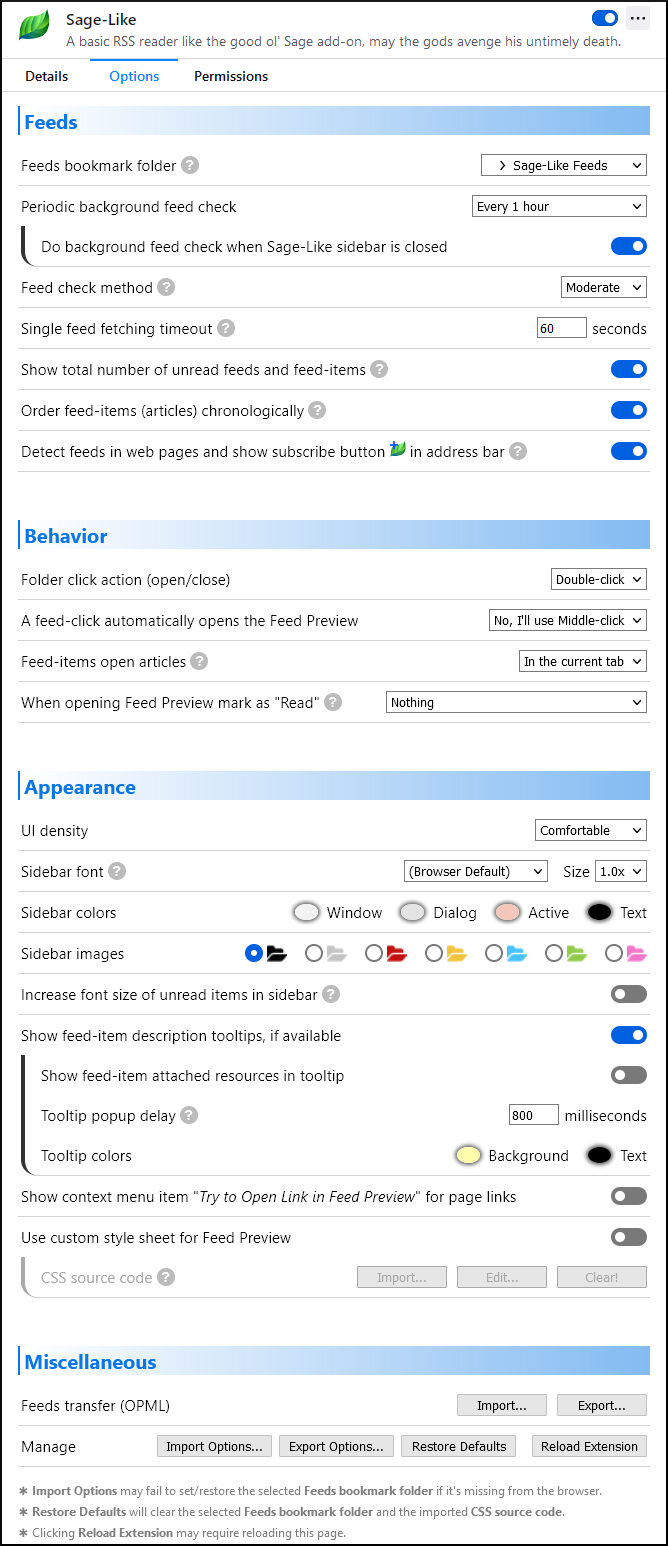
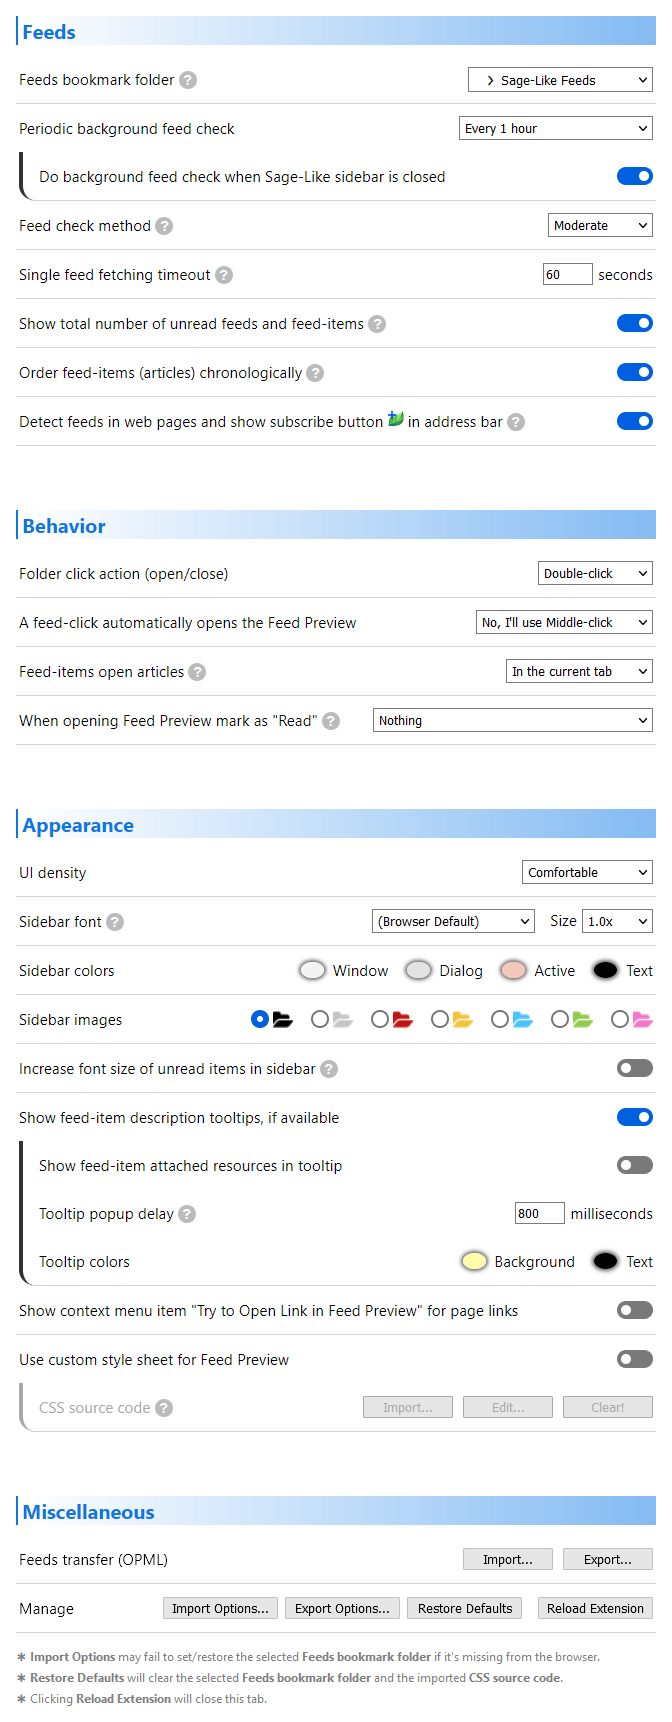
preferences.css: Minor fix

Changed region(s): [[0.0, 0.0, 1.0, 1.0], [0.7186, 0.1242, 0.7485, 0.1552]]

diff --git a/Sage-Like/preferences/preferences.css b/Sage-Like/preferences/preferences.css
@@ -171,7 +171,7 @@ body * {
 }
 
 .mainContent {
-	min-width: 600px;
+	min-width: 640px;
 	max-width: var(--max-width-preferences-body);
 	margin-left: calc(var(--width-navigation-bar) + 10px);
 }

diff --git a/.misc/tasks.md b/.misc/tasks.md
@@ -1057,16 +1057,18 @@
 * add support for attachments in youtube feeds = YouTube feeds don't have valid enclosures; the element link[rel=alternate] instead or enclosure/related and no [type]. There's a <media:content> with [type] but with [url] instaed of [href].
 * preferences in own tab => DONE
 * go to options from the browser_action conext menu => NO
+* deleting a BIG tree when the feeds are refreshed takes a long time => noting to do
 ---
 
 
 ## Now
+* new version: upload version changes from mozilla-extension-page.txt
+* new version: upload new screenshot-2.png
 > STANDING TASK: Check the </select> control in the preferences page. Are the colors of the </option> in dark mode are readable when hoverd
 ---
 
 
 ## Next
-* deleting a BIG tree when the feeds are refreshed takes a long time
 * in YT when changing tabs (PLAYLISTS, CHANNELS, etc.) the discoveryView and discovery from address-bar are not synced with the display
 >`¯\_(ツ)_/¯ ¯\_(ツ)_/¯ ¯\_(ツ)_/¯ ¯\_(ツ)_/¯`
 
